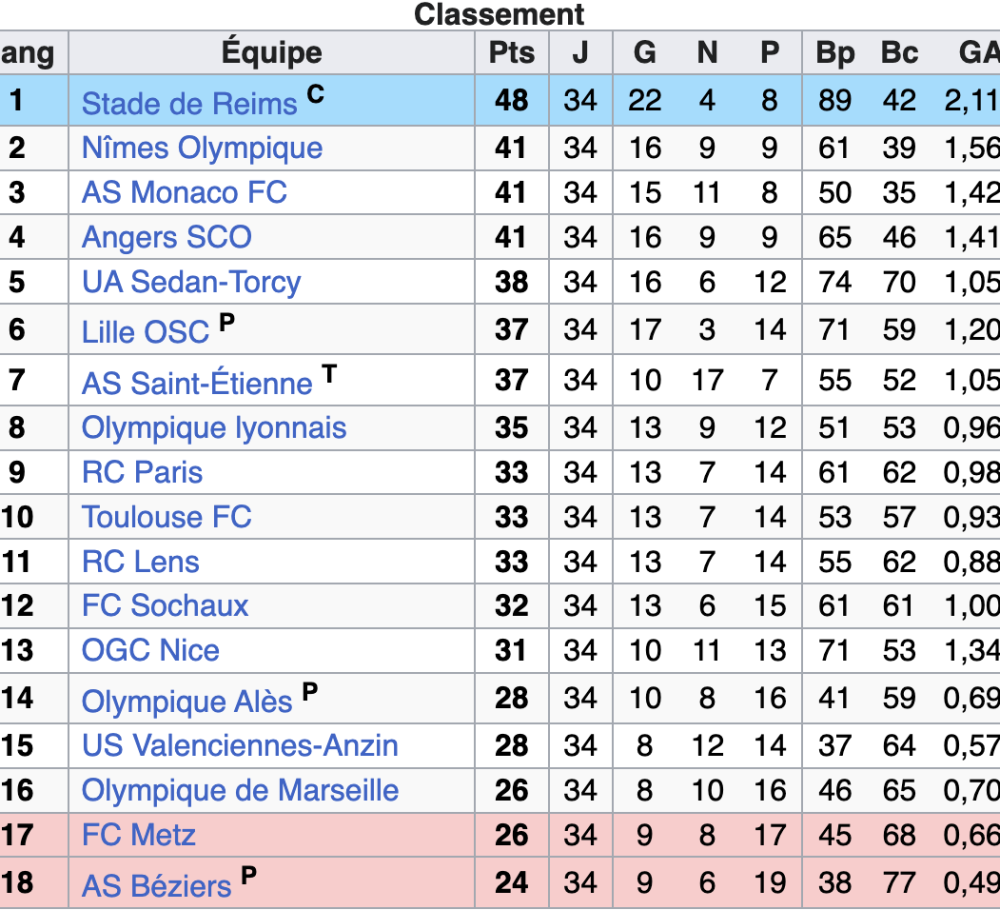
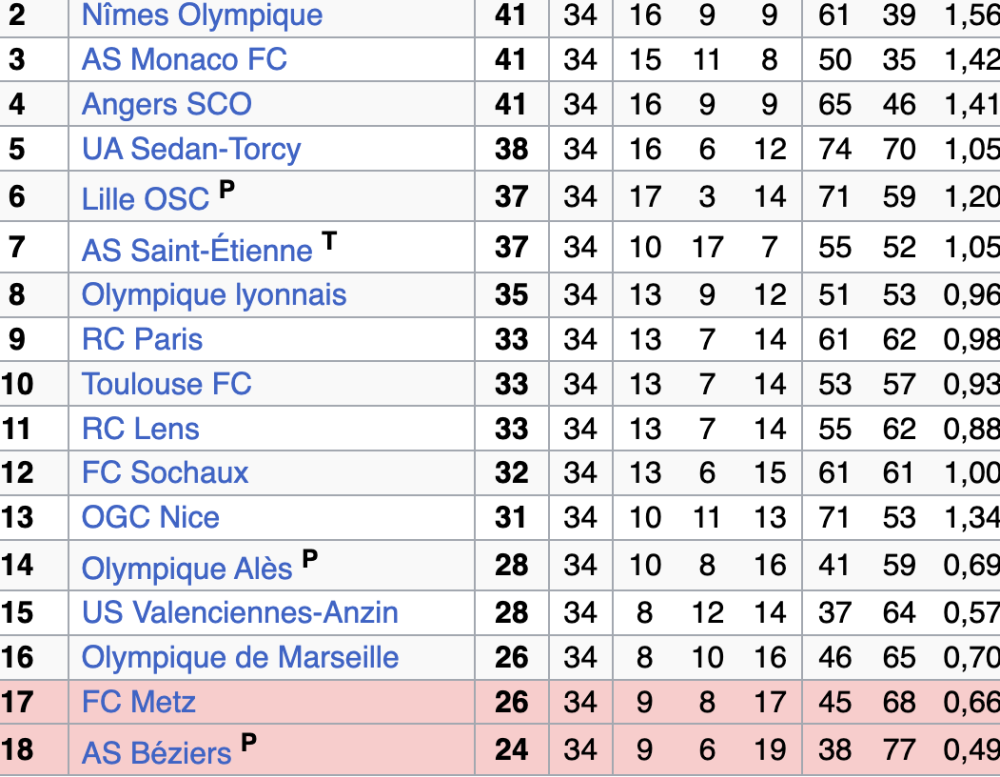
maj museum 2

diff --git a/src/views/Album.vue b/src/views/Album.vue
@@ -30,27 +30,33 @@ function img(path) {
   return import.meta.env.BASE_URL + path.replace(/^\//, '')
 }
 
-const VISIBLE = 3
+// 👉 Nombre de logos visibles : 1 sur mobile (≤800px), 3 sur ordinateur
+const VISIBLE = ref(window.innerWidth <= 800 ? 1 : 3)
+
+function updateVisibleCount() {
+  VISIBLE.value = window.innerWidth <= 800 ? 1 : 3
+}
+
 const startIndex = ref(0)
 const AUTO_SCROLL_DELAY = 4000
 let autoScrollTimer = null
 
-const visibleLogos = computed(() => logos.slice(startIndex.value, startIndex.value + VISIBLE))
+const visibleLogos = computed(() => logos.slice(startIndex.value, startIndex.value + VISIBLE.value))
 
 function prevLogo() {
   startIndex.value = startIndex.value === 0
-    ? logos.length - VISIBLE
+    ? logos.length - VISIBLE.value
     : startIndex.value - 1
 }
 
 function nextLogo() {
-  startIndex.value = startIndex.value >= logos.length - VISIBLE
+  startIndex.value = startIndex.value >= logos.length - VISIBLE.value
     ? 0
     : startIndex.value + 1
 }
 
 function goTo(i) {
-  startIndex.value = Math.min(Math.max(0, i - 1), Math.max(0, logos.length - VISIBLE))
+  startIndex.value = Math.min(Math.max(0, i - 1), Math.max(0, logos.length - VISIBLE.value))
 }
 
 function startAutoScroll() {
@@ -73,10 +79,12 @@ function handleManualNav(action) {
 }
 
 onMounted(() => {
+  window.addEventListener('resize', updateVisibleCount)
   startAutoScroll()
 })
 
 onUnmounted(() => {
+  window.removeEventListener('resize', updateVisibleCount)
   stopAutoScroll()
 })
 </script>
@@ -133,7 +141,7 @@ onUnmounted(() => {
       Revivez plus d'un siècle de passion, de défis et d'évolution du ballon rond à Béziers.
     </p>
 
-    <!-- CARROUSEL DE LOGOS (3 par 3, défilement auto) -->
+<!-- CARROUSEL DE LOGOS (3 par 3 sur ordinateur, 1 par 1 sur mobile, défilement auto) -->
 <div class="carousel" @mouseenter="stopAutoScroll" @mouseleave="startAutoScroll">
   <button
     class="arrow arrow-left"
@@ -160,7 +168,7 @@ onUnmounted(() => {
     v-for="(l, i) in logos"
     :key="i"
     class="dot"
-    :class="{ active: i >= startIndex && i < startIndex + VISIBLE }"
+    :class="{ active: i >= startIndex && i < startIndex + VISIBLE.value }"
     @click="handleManualNav(() => goTo(i))"
     :aria-label="'Aller au logo ' + (i + 1)"
   ></button>
@@ -1523,6 +1531,11 @@ onUnmounted(() => {
   }
   .carousel-track {
     flex-direction: column;
+    align-items: center;
+  }
+  .carousel-item {
+    margin: 0 auto;
+    max-width: 220px;
   }
   .photo-pair {
     flex-direction: column;
